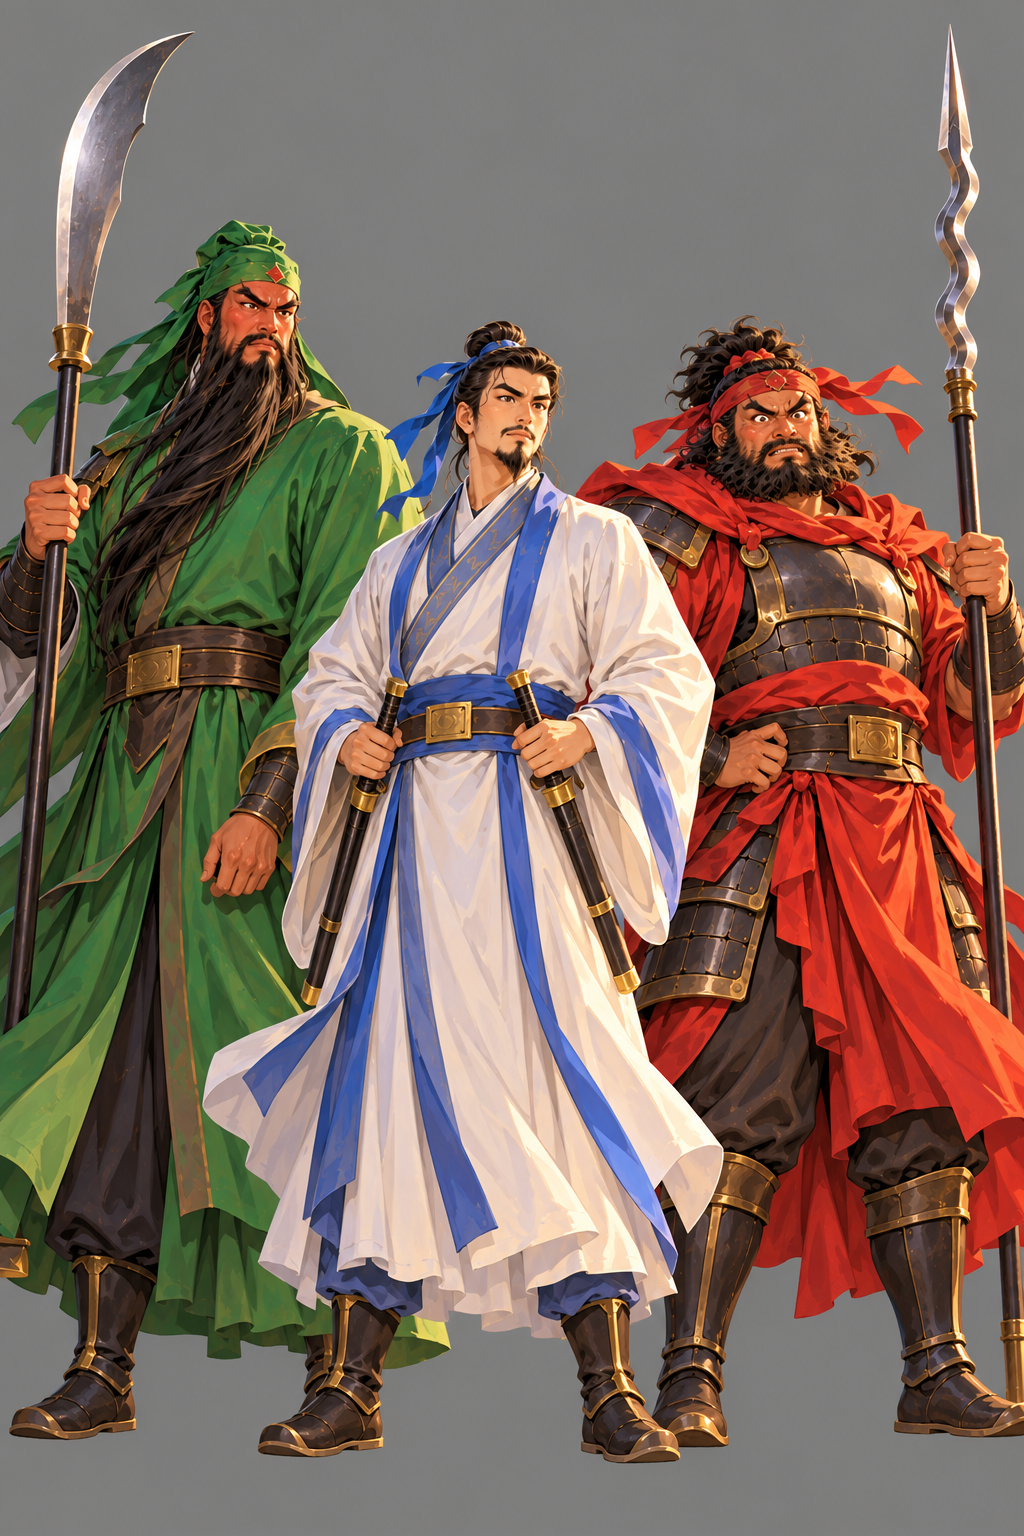
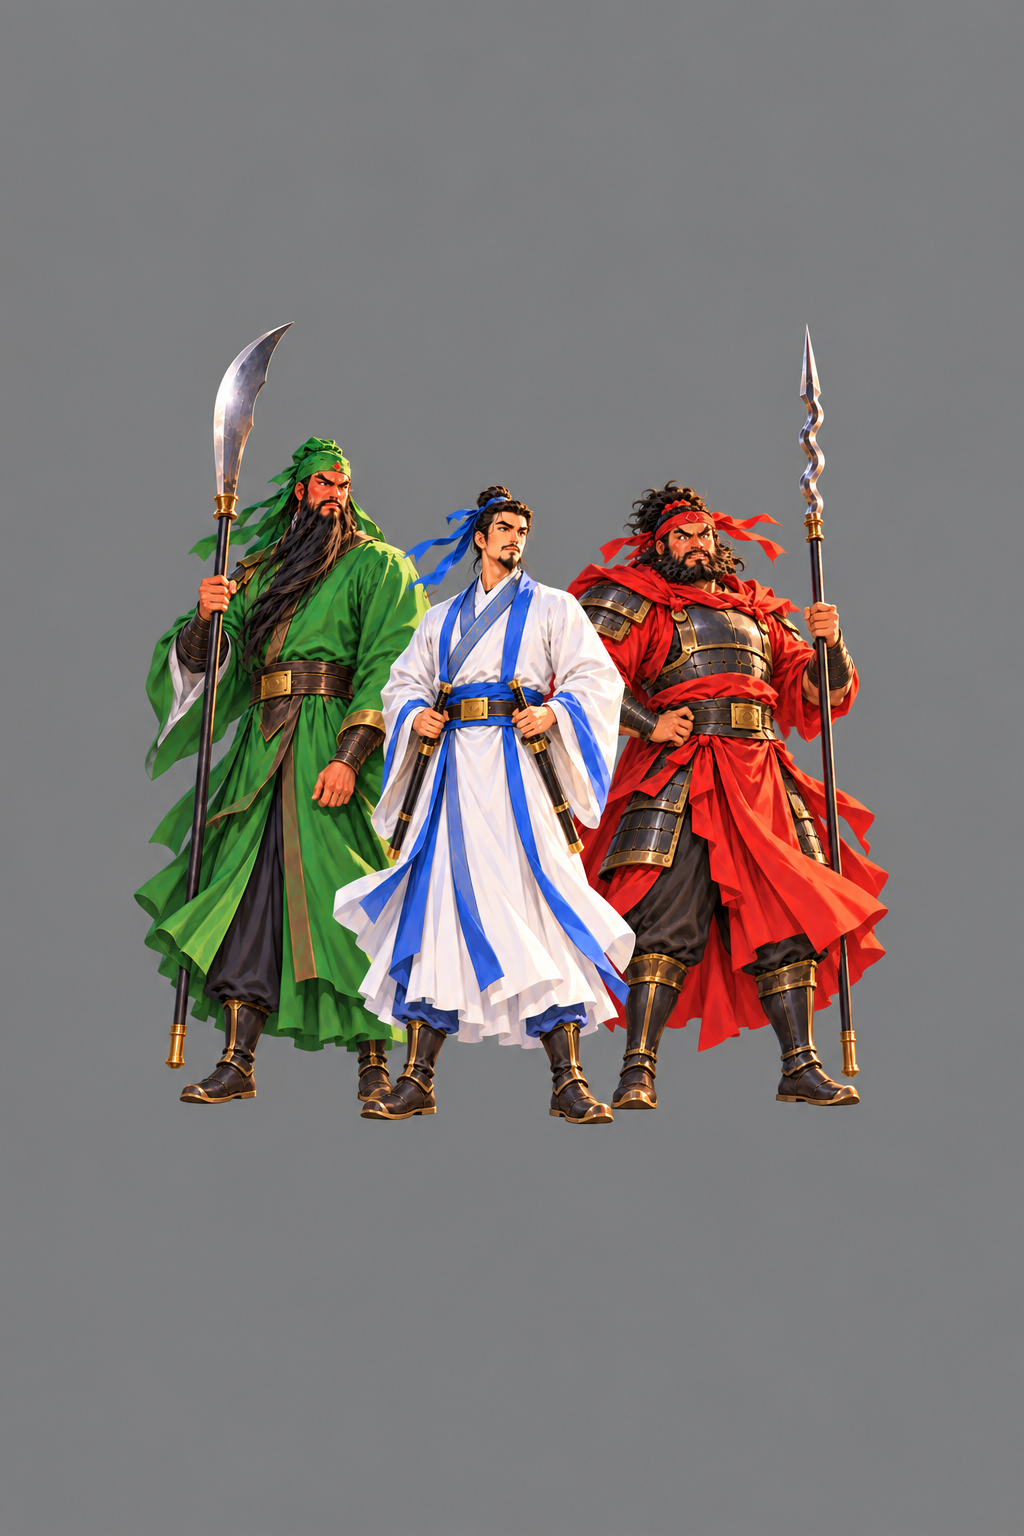
Home trio: use Codex's full-width redraw, sides no longer cut

diff --git a/原型/守关.html b/原型/守关.html
@@ -75,7 +75,7 @@ function smooth(pts, n = 6) { const o = []; for (let i = 0; i < pts.length - 1; 
 // 牌面头像和菜单三人图：用户定的新画风（10-24：「用这个图吧，风格可以改一下，不要那么水墨」），透明底，原图在 美术/刘关张/桃园三英_透明.png
 const IMG = {}; for (const k of ['guan', 'zhang', 'liu']) { IMG[k] = new Image(); IMG[k].src = 'img/p_' + k + '.jpg?v=1027'; }
 for (const k of ['jianyong', 'liru']) { IMG['p_' + k] = new Image(); IMG['p_' + k].src = 'img/p_' + k + '.jpg'; }   // 军师头像（10-25，ChatGPT 画，原图 美术/界面/军师头像_简雍李儒.jpg）
-IMG.trio = new Image(); IMG.trio.src = 'img/trio.png?v=1027';
+IMG.trio = new Image(); IMG.trio.src = 'img/trio.png?v=1027b';
 // 3D 建模渲出来的小兵图集（Meshy → Blender → 水墨着色，见 ../工具/）；没有时退回程序画的
 const BUST = '?t=' + Date.now();                     // 原型阶段图集常改，别吃浏览器缓存
 // 城墙、战场背景（ChatGPT 画的，../工具/make_scene.py 处理）；没有时退回程序画的
